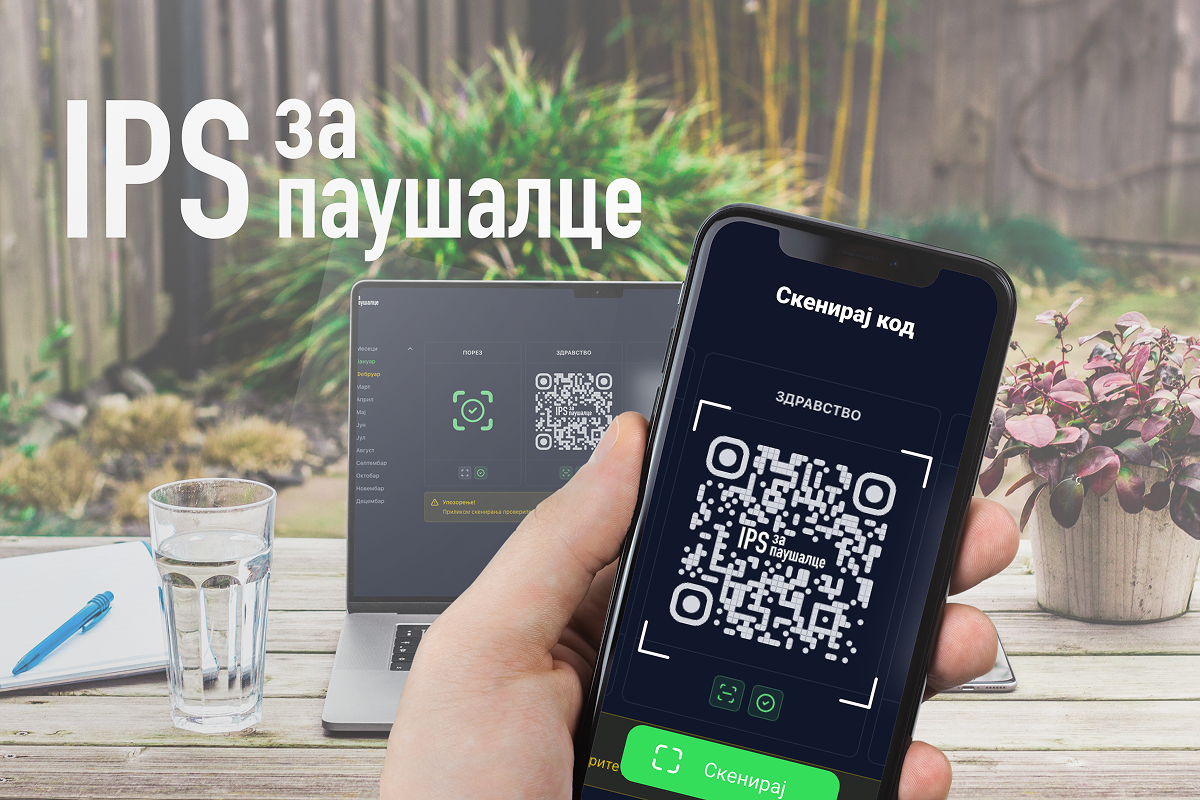
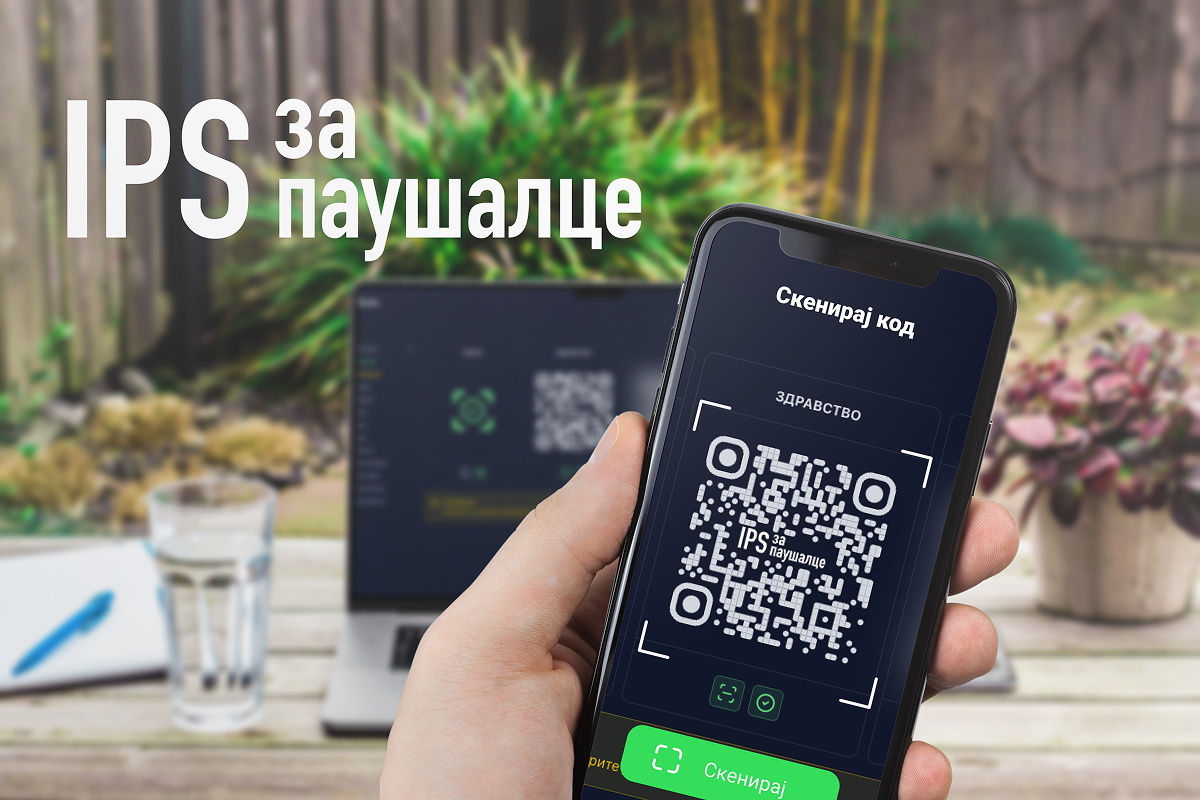
Update images and fix state deletion

diff --git a/pages/company/index.vue b/pages/company/index.vue
@@ -1,7 +1,7 @@
 <script setup lang="ts">
 import { UContainer } from "#components";
 import localforage from "localforage";
-import { DATA_PATH } from "~/consts";
+import { DATA_PATH, STATE_PATH } from "~/consts";
 import type { TData } from "~/types/data";
 
 const { data } = useAsyncData(
@@ -27,7 +27,14 @@ const onDelete = async (name: string) => {
   items.value = items.value.filter((item) => item.firma !== name);
   await localforage.removeItem(dataStorage(name));
 
-  await localforage.iterate((value, key) => {});
+  const keys = await localforage.keys();
+
+  for (let item in keys) {
+    const key = keys[item];
+    if (key.startsWith(`${STATE_PATH}/${companyName(name)}`)) {
+      await localforage.removeItem(key);
+    }
+  }
 };
 </script>
 

diff --git a/pages/index.vue b/pages/index.vue
@@ -164,9 +164,7 @@ useSeoMeta({
               </p>
             </div>
           </div>
-          <div
-            class="shadow-2xl shadow-(--ui-bg)/15 dark:shadow-white/15 max-w-[400px] rounded"
-          >
+          <div class="max-w-[400px] rounded">
             <img
               :src="isDark ? '/beforeAfter.png' : '/beforeAfter.png'"
               alt="Како функционише?"
